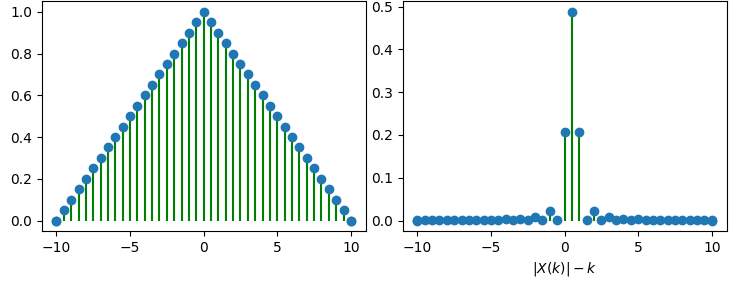
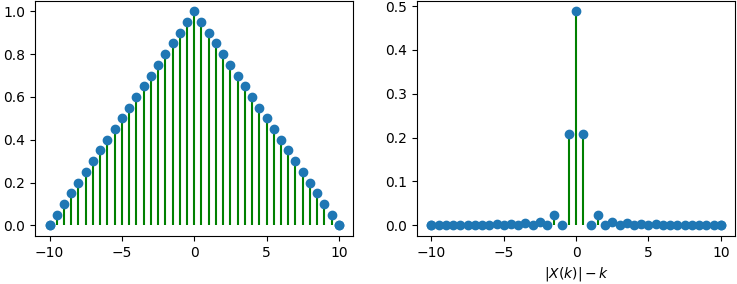
update doc about dft

diff --git a/doc/source/fourier.rst b/doc/source/fourier.rst
@@ -165,11 +165,14 @@ DTFT公式如下：
     X(k) &= DFT[x(n)] = \sum_{n=0}^{N-1} x(n) W_N^{nk} \\
     x(n) &= DFT^{-1}[X(k)] = \frac{1}{N} \sum_{k=0}^{N-1} X(k) W_N^{-nk}
 
-DFT是DFS时域和频率的主值周期；DFT是对DTFT的频域采样。
-
 ..  image:: fourier/DFT.png
     :align: center
 
+- DFT是DFS时域和频率的主值周期(对比DFT和DFS的演示图理解)
+
+    无论怎么截取主周期 :math:`x(n)` ，均不会改变周期信号的频谱信息；但计算DFT时，坐标 :math:`k` 使用不同的范围，则可以截取对应的频谱区间；默认 :math:`k \in [0, N)` ，故对应的频谱不是关于零点对称的；若如上图中取 :math:`k \in [-N/2, N/2)` ，则可得到关于零点对称的频谱区间。
+
+- DFT是对DTFT的频域采样
 
 帕塞瓦尔定理(Parseval's theorem)，即总能量为：
 
